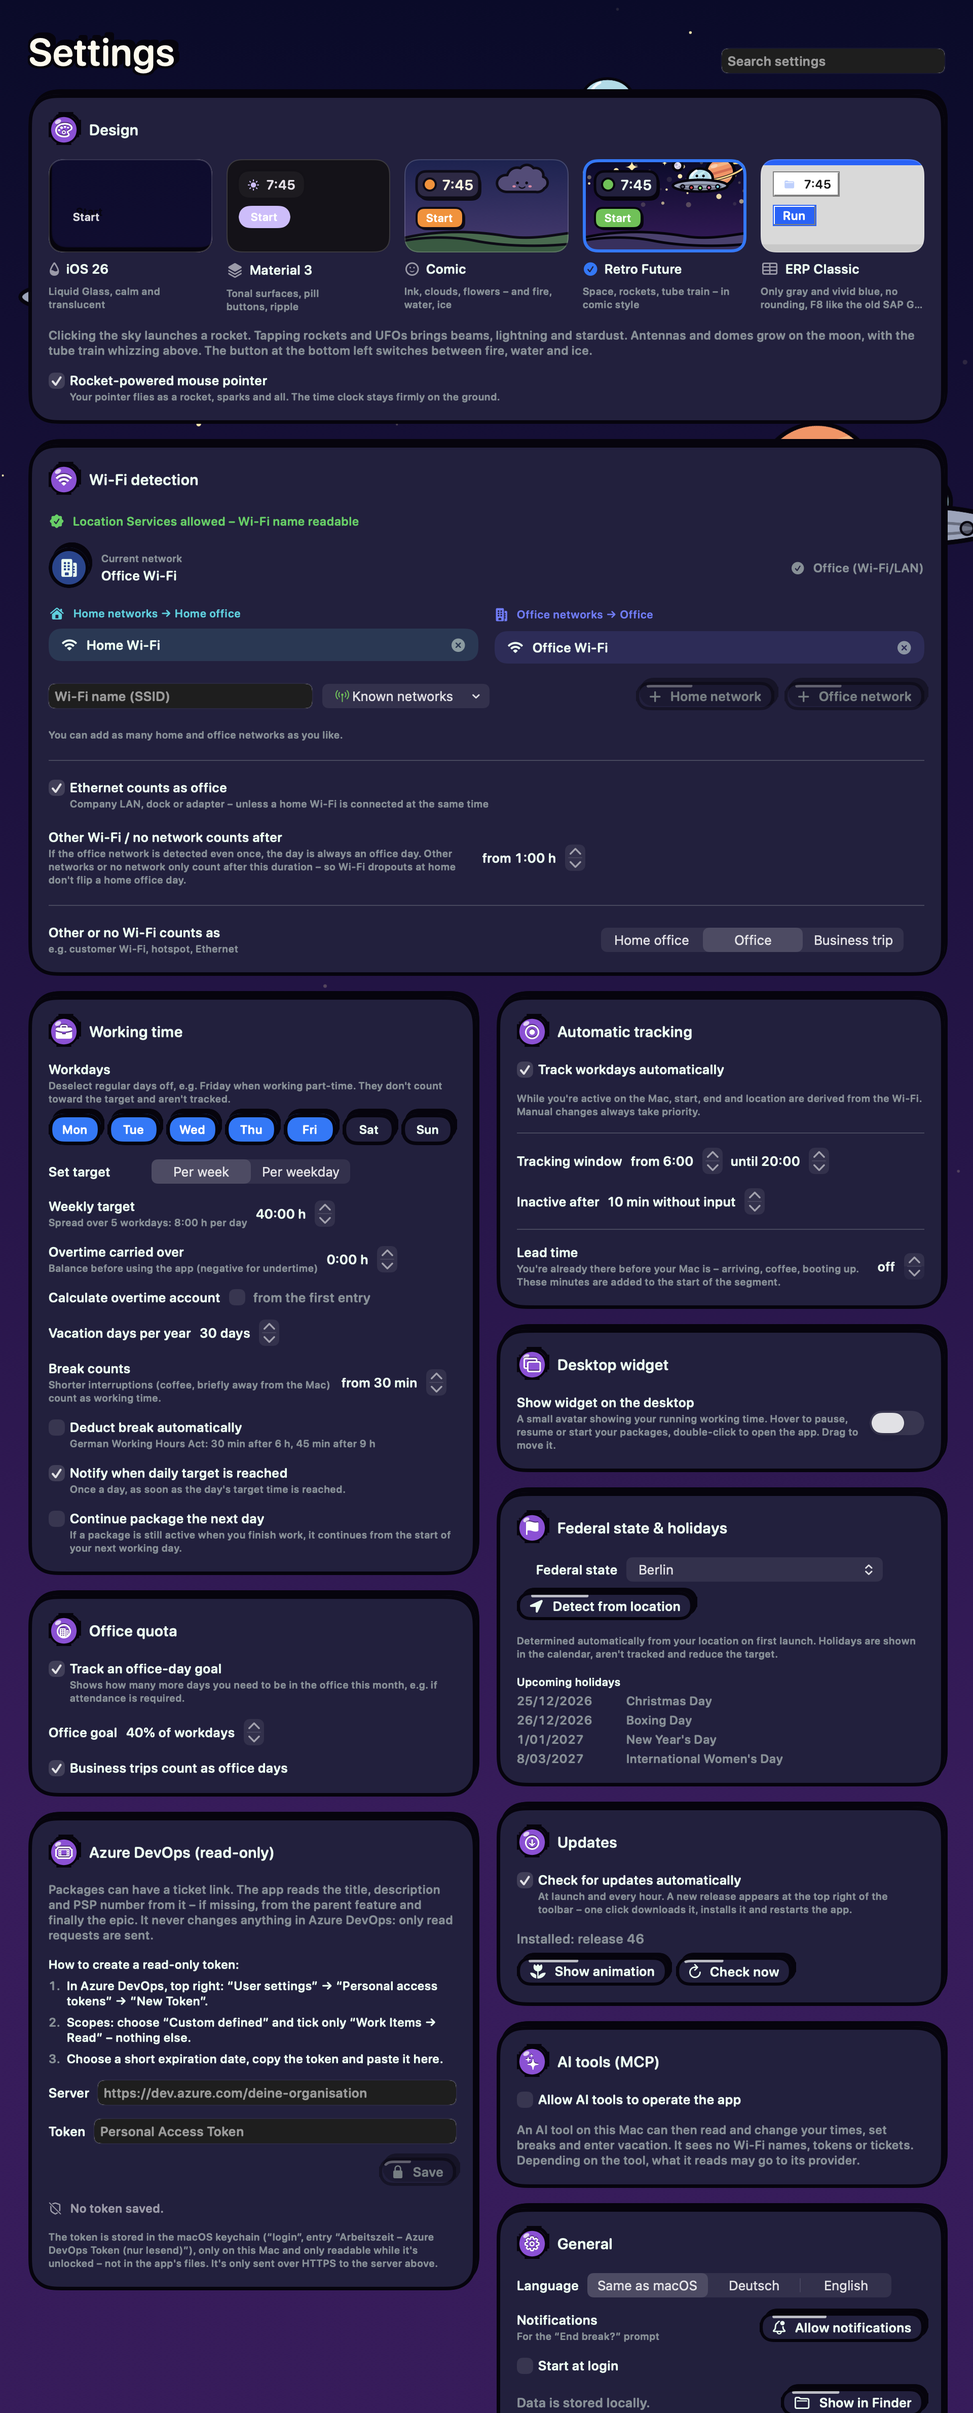
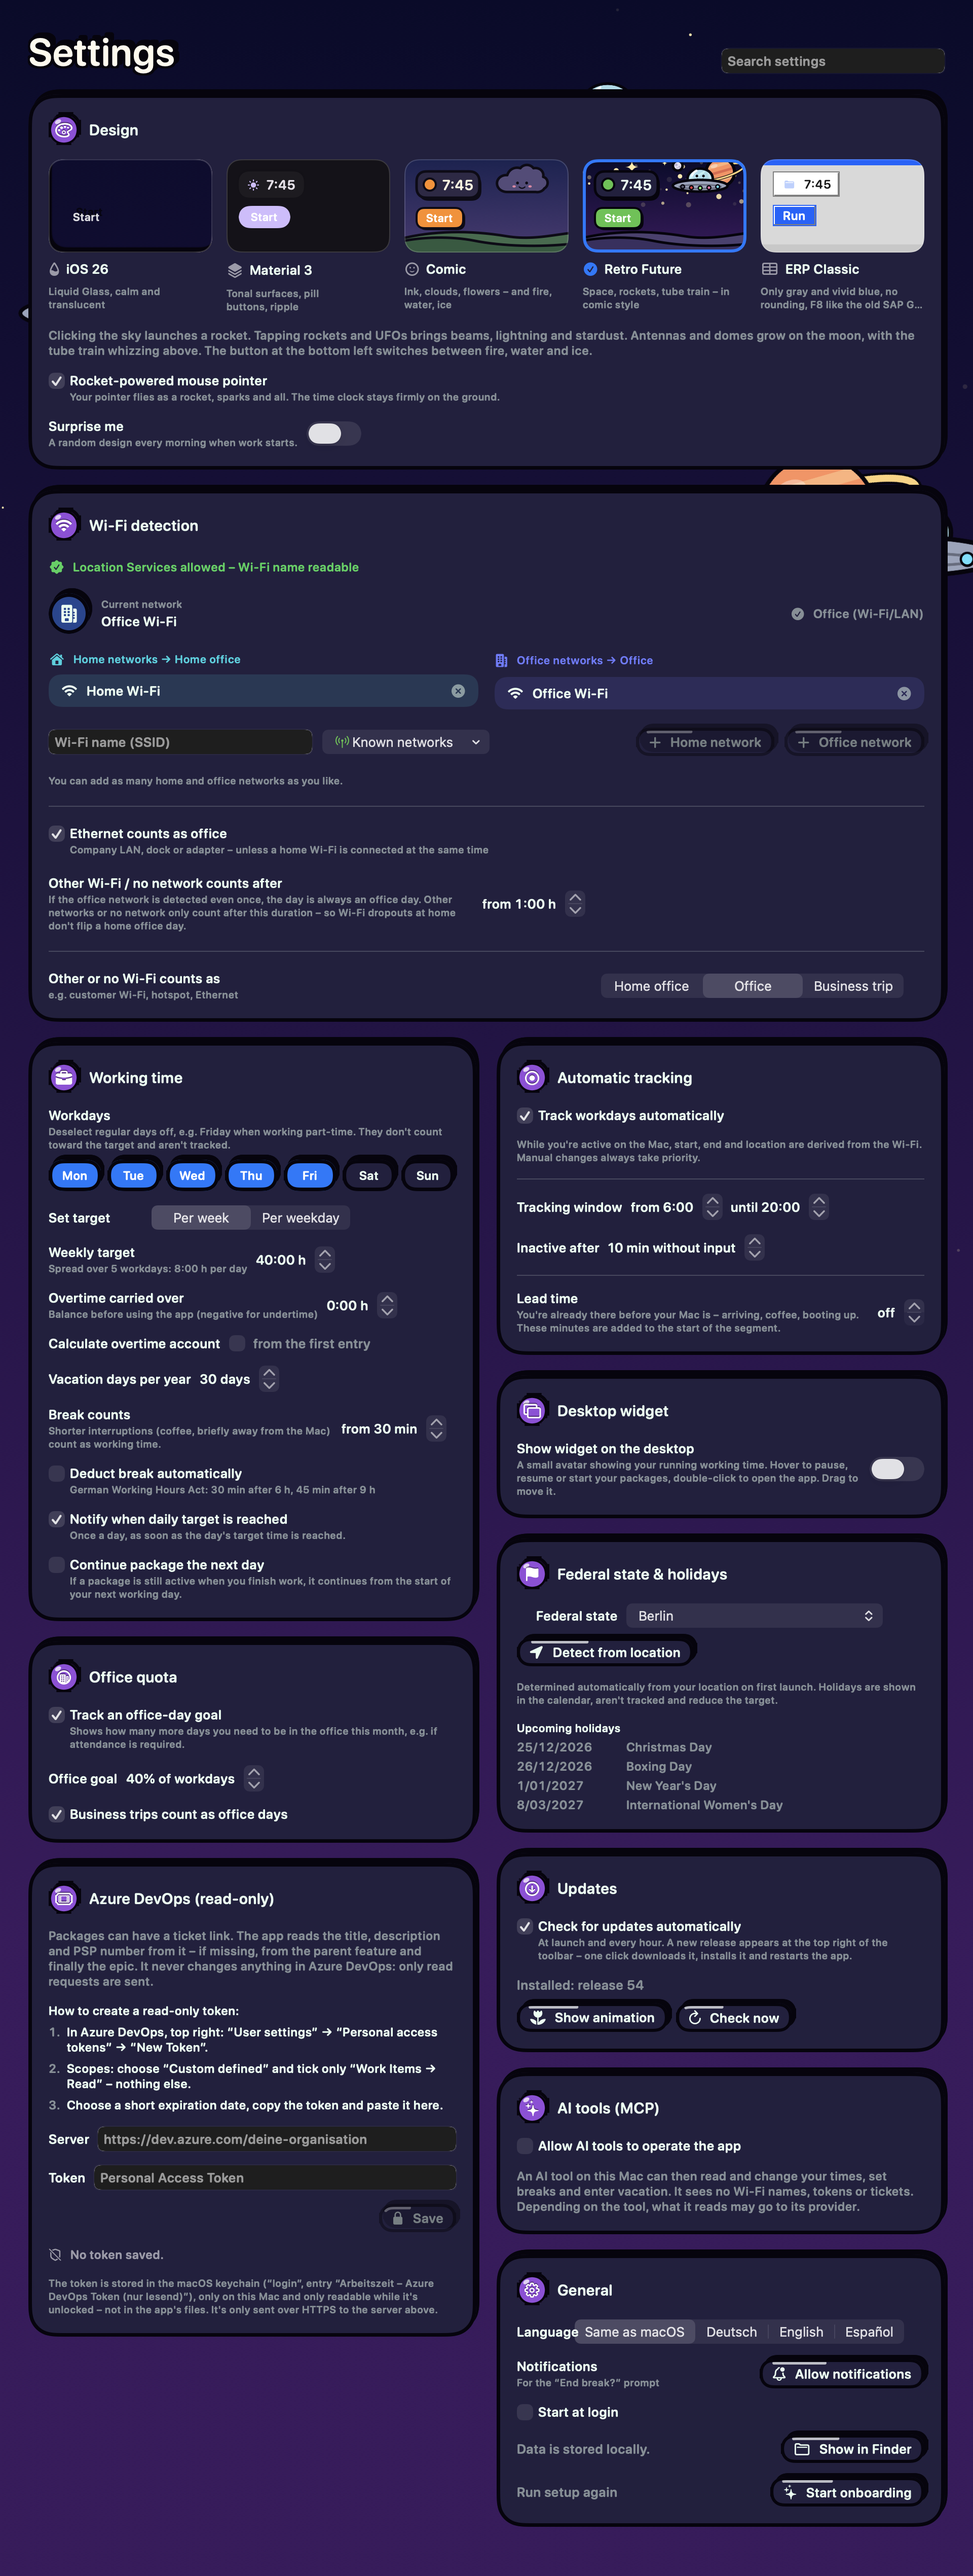
Docs: update description and screenshots

Changed region(s): [[0.0312, 0.0, 1.0, 1.0], [0.5, 0.2487, 0.6562, 0.2798], [0.5, 0.342, 0.5625, 0.3731]]

diff --git a/README.md b/README.md
@@ -21,7 +21,7 @@ Work-time tracker for macOS · Arbeitszeiterfassung für macOS
 - **Menu bar** – status and controls are always one click away.
 - **Desktop widget** – a small avatar shows your running working time, with its own figure for each design: a flower in Comic, a rocket in Retro Future. Hover over it to pause, resume or start a package, double-click to open the app. It stays in the foreground or sits behind all windows, as you like, and remembers where you put it. If it takes up too much room, dock it to the right edge of the screen: there it shrinks to a small figure with a ring that fills up to your daily target. Hover over it and the full widget slides out; drag it up or down along the edge. A button in the widget switches between both. It never shows up in screen sharing or recordings. Now and then the figure says something in a speech bubble – sayings, real quotes on work with their source, or sayings of your own. In ERP Classic it is a paperclip with glasses and a clipboard.
 - **AI tools (MCP)** – optionally let an AI tool on your Mac, such as Claude or Cursor, operate the app: say "I started at 3 today", "my break was only 30 minutes" or "enter vacation from Monday to Friday", or ask how many office days you still need. It can also switch the desktop widget on or off, dock it to the screen edge or move it there. Off by default.
-- **Five designs, plus your own** – iOS 26, Material 3, Comic, Retro Future and ERP Classic, which uses only gray and blue and has no rounded corners. An AI tool can also create custom designs with your colors, font and rounded corners, and add your own background, logo, card pictures, Dock icon and icons; they then appear in the settings. A custom design can give the desktop widget a look of its own: colors, rounded corners, a picture of your own instead of the figure, a background picture and a bigger or smaller figure at the screen edge.
+- **Five designs, plus your own** – iOS 26, Material 3, Comic, Retro Future and ERP Classic, which uses only gray and blue and has no rounded corners. Can't decide? Switch on "Surprise me" and the app picks a random design every morning when you start work. An AI tool can also create custom designs with your colors, font and rounded corners, and add your own background, logo, card pictures, Dock icon and icons; they then appear in the settings. A custom design can give the desktop widget a look of its own: colors, rounded corners, a picture of your own instead of the figure, a background picture and a bigger or smaller figure at the screen edge.
 - **Searchable settings** – type a word and only the matching settings remain, with the matches highlighted.
 - **Your data stays on your Mac** – there is no account and no cloud. Location Services are only needed because macOS reveals the Wi-Fi name that way; no location data is stored. If you connect an AI tool, what it reads may go to its provider, depending on the tool. It gets your work times and notes, but no Wi-Fi names, tokens or tickets.
 
@@ -177,7 +177,7 @@ The source code is not hosted here.
 - **Menüleiste** – Status und Steuerung sind immer einen Klick entfernt.
 - **Desktop-Widget** – ein kleiner Avatar zeigt die laufende Arbeitszeit, je Design eine eigene Figur: im Comic eine Blume, in Retro-Zukunft eine Rakete. Maus darüber zeigt Pause, Fortsetzen und deine Pakete zum Starten, Doppelklick öffnet die App. Es bleibt auf Wunsch im Vordergrund oder liegt hinter allen Fenstern und merkt sich seinen Platz. Braucht es zu viel Platz, dockt es am rechten Bildschirmrand an: Dort ist es eine kleine Figur mit einem Ring, der sich bis zum Tagessoll füllt. Maus darüber klappt das ganze Widget heraus, Ziehen verschiebt es am Rand hoch und runter. Ein Knopf im Widget wechselt zwischen beidem. In Bildschirmfreigaben und Aufnahmen erscheint es nicht. Ab und zu sagt die Figur etwas in einer Sprechblase – Sprüche, echte Zitate zur Arbeit mit Quelle oder eigene Sprüche. In ERP-Klassik ist sie eine Büroklammer mit Brille und Klemmbrett.
 - **KI-Tools (MCP)** – auf Wunsch bedient ein KI-Tool auf deinem Mac, zum Beispiel Claude oder Cursor, die App: Sag „Ich habe heute um 3 angefangen“, „Meine Pause war nur 30 Minuten“ oder „Trag mir von Montag bis Freitag Urlaub ein“, oder frag, wie viele Bürotage dir noch fehlen. Es kann auch das Desktop-Widget ein- und ausschalten, an den Bildschirmrand setzen oder dort verschieben. Standardmäßig aus.
-- **Fünf Designs und eigene** – iOS 26, Material 3, Comic, Retro-Zukunft und ERP-Klassik, das nur Grau und Blau kennt und keine Rundungen hat. Ein KI-Tool kann außerdem eigene Designs mit deinen Farben, deiner Schrift und deinen Rundungen anlegen und ihnen eigene Hintergründe, ein Logo, Kartenbilder, ein Dock-Symbol und Icons geben; sie stehen dann in den Einstellungen. Ein eigenes Design kann auch dem Desktop-Widget eine eigene Optik geben: Farben, Rundungen, ein eigenes Bild statt der Figur, ein Hintergrundbild und eine größere oder kleinere Figur am Bildschirmrand.
+- **Fünf Designs und eigene** – iOS 26, Material 3, Comic, Retro-Zukunft und ERP-Klassik, das nur Grau und Blau kennt und keine Rundungen hat. Kannst du dich nicht entscheiden? Mit „Überrasch mich“ wählt die App jeden Morgen zum Arbeitsbeginn ein zufälliges Design. Ein KI-Tool kann außerdem eigene Designs mit deinen Farben, deiner Schrift und deinen Rundungen anlegen und ihnen eigene Hintergründe, ein Logo, Kartenbilder, ein Dock-Symbol und Icons geben; sie stehen dann in den Einstellungen. Ein eigenes Design kann auch dem Desktop-Widget eine eigene Optik geben: Farben, Rundungen, ein eigenes Bild statt der Figur, ein Hintergrundbild und eine größere oder kleinere Figur am Bildschirmrand.
 - **Durchsuchbare Einstellungen** – ein Wort eintippen, und nur die passenden Einstellungen bleiben stehen, die Treffer sind markiert.
 - **Deine Daten bleiben auf deinem Mac** – kein Konto, keine Cloud. Die Ortungsdienste braucht die App nur, weil macOS den WLAN-Namen so herausgibt; Standortdaten werden nicht gespeichert. Wenn du ein KI-Tool verbindest, kann das, was es liest, je nach Tool an dessen Anbieter gehen. Es bekommt deine Arbeitszeiten und Notizen, aber keine WLAN-Namen, Tokens oder Tickets.
 
